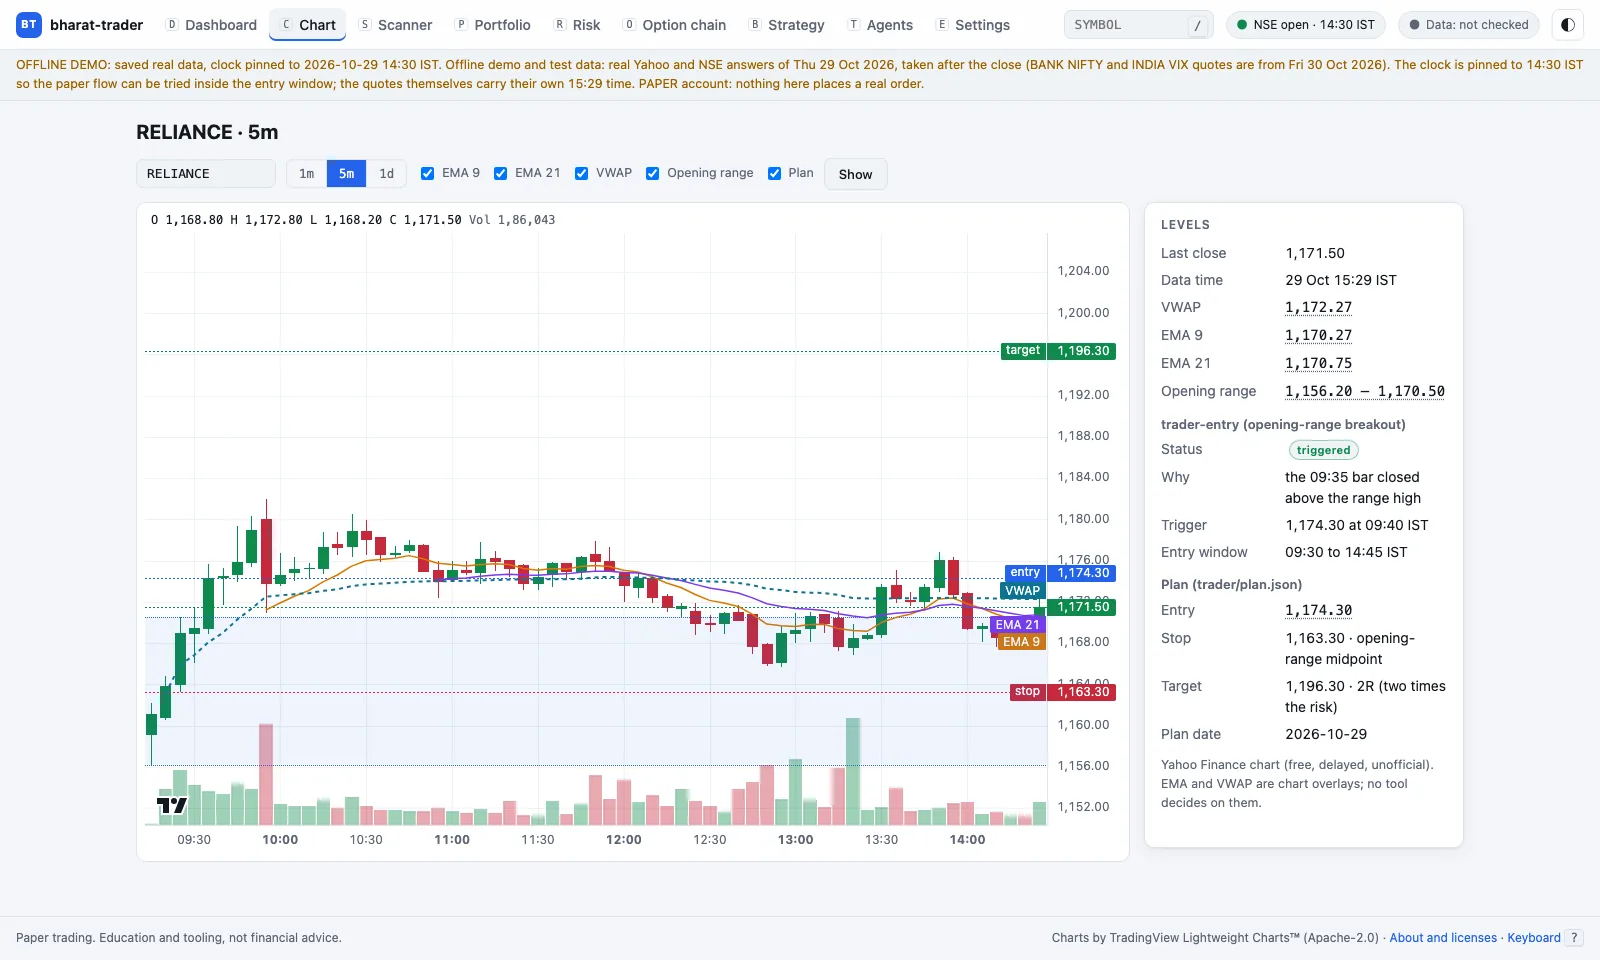
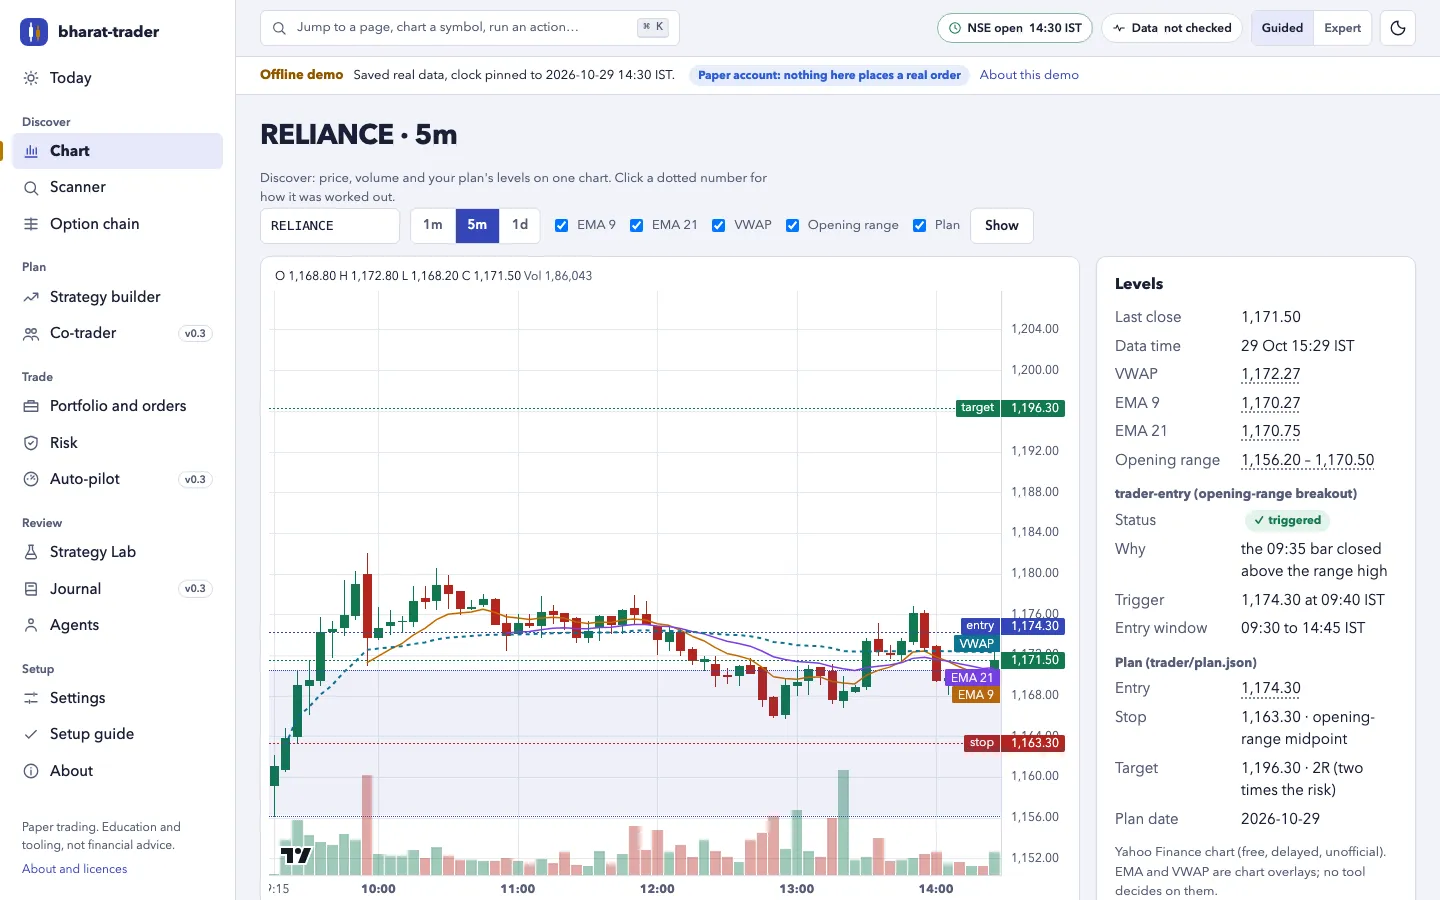
docs(ui): screenshots and README

diff --git a/README.md b/README.md
@@ -73,10 +73,14 @@ holdings, positions, orders, instruments) with a one-shot local login and
 a static-IP preflight. A live order is possible only after six gates and you
 running the command yourself. See [docs/brokers.md](docs/brokers.md).
 
-**Local web UI.** Dashboard, candlestick charts with your plan's levels,
-scanner, option chain, strategy builder, paper portfolio with F&O by
-strategy, the risk panel and kill switch, the agent team and a validated
-settings editor. A "why" panel explains every number. See [docs/ui.md](docs/ui.md).
+**Local web UI.** A "Today" cockpit (the session clock with your entry
+window, day P&L after charges, loss budget, risk state, positions, alerts),
+candlestick charts with your plan's levels, scanner, option chain, strategy
+builder, paper portfolio with F&O by strategy, the risk panel and kill
+switch, Strategy Lab scorecards and equity curves, the agent team, a guided
+first-run setup and a validated settings editor. Grouped navigation that works
+on a phone, a command palette (Ctrl/Cmd-K), guided or expert detail, and a
+"why" panel for every number. See [docs/ui.md](docs/ui.md).
 
 **Your AI assistant, via MCP.** 32 tools and 11 prompts for any
 MCP-compatible assistant, over stdio or loopback HTTP. Paper only: there is
@@ -224,8 +228,10 @@ Yahoo data of 29 and 30 October 2026.
 
 | | |
 | --- | --- |
-| ![Dashboard: NSE status, indices, today's paper P&L, the trade plan, alerts and the last risk check](docs/images/dashboard.webp) | ![Chart: RELIANCE 5-minute candles with EMA, VWAP, the opening range and the plan's entry, stop and target](docs/images/chart.webp) |
-| **Dashboard** | **Chart** with the plan's levels |
+| ![Today: the session rail with the entry window and flat-by time, day P&L after charges, daily loss budget, trades used, risk state, open positions and the plan](docs/images/today.webp) | ![Chart: RELIANCE 5-minute candles with EMA, VWAP, the opening range and the plan's entry, stop and target](docs/images/chart.webp) |
+| **Today**, the cockpit | **Chart** with the plan's levels |
+| ![Strategy Lab: two backtests rejected by their gates, with out-of-sample trades, expectancy after charges and the Monte Carlo range](docs/images/lab.webp) | ![Setup guide: capital, risk per trade, trades per day, product and broker, with what the limits mean in rupees](docs/images/setup.webp) |
+| **Strategy Lab** scorecards | **Setup guide** on a fresh folder |
 | ![Option chain: NIFTY with ITM shading, OI bars, our IV, PCR, max pain, walls and expected move](docs/images/options.webp) | ![Risk panel: kill switch, circuit-breakers, recorded verdicts and your limits](docs/images/risk.webp) |
 | **Option chain** | **Risk panel** with the kill switch |
 
